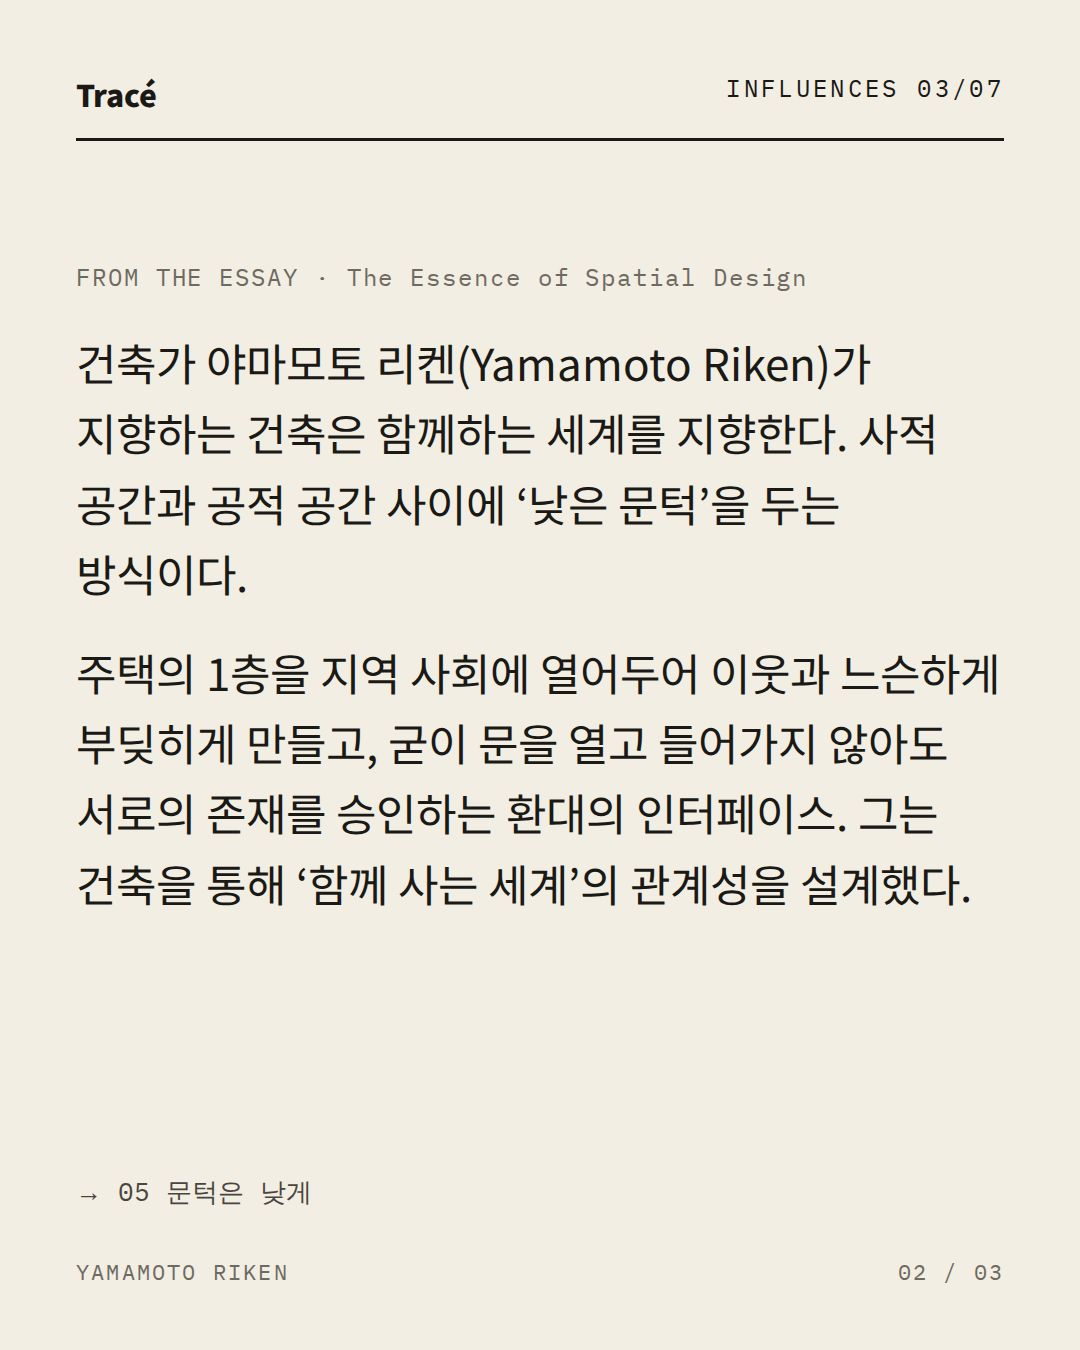
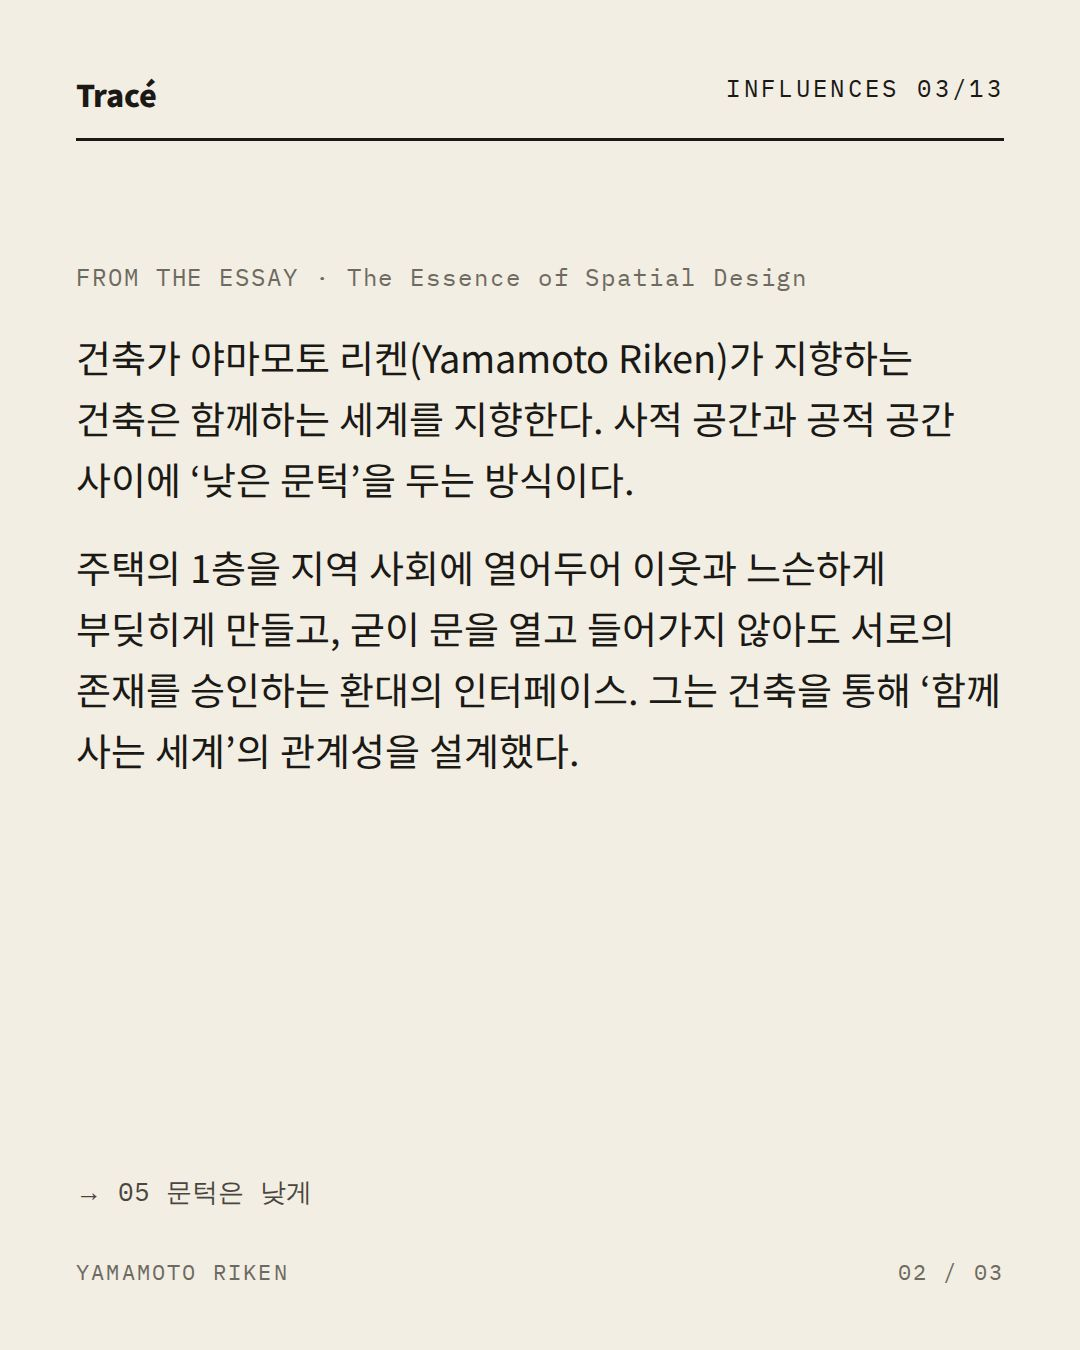
Tracé Influences: add Gehl, Debord, Nakamura, Bourdieu, Wood, Morrison (plan text + sourced facts), captions with cautions
Claude-Session: https://claude.ai/code/session_01SqK9Lxgur98TyfHNbRYJgn

Changed region(s): [[0.0611, 0.2489, 0.9472, 0.6844], [0.8861, 0.0622, 0.9167, 0.0933]]

diff --git a/threshold/scripts/render_influences.py b/threshold/scripts/render_influences.py
@@ -61,12 +61,12 @@ body{{position:relative;padding:72px 76px}}
 .bar b{{font:900 30px "Heavy";letter-spacing:0;text-transform:none}}
 .rule{{height:3px;background:#1a1916;margin-top:22px}}
 .lab{{margin-top:120px;font:400 24px "Mono";letter-spacing:.08em;color:#6e6a62}}
-.q{{margin-top:34px;font:400 44px/1.6 "Sans";word-break:keep-all}} .q p+p{{margin-top:28px}}
+.q{{margin-top:34px;font:400 {38 if len(p["quote"]) > 150 else 44}px/1.6 "Sans";word-break:keep-all}} .q p+p{{margin-top:28px}}
 .link{{position:absolute;left:76px;bottom:140px;font:400 26px "Mono";color:#4a463f}}
 .foot{{position:absolute;left:76px;right:76px;bottom:64px;display:flex;justify-content:space-between;font:400 22px "Mono";letter-spacing:.1em;color:#6e6a62}}
 </style><body>
 <div class=bar><b>Tracé</b><span>Influences {i:02d}/{n:02d}</span></div><div class=rule></div>
-<p class=lab>FROM THE ESSAY · {html.escape(p["source"])}</p><div class=q>{paras}</div>{link}
+<p class=lab>{html.escape(p.get("label", "FROM THE ESSAY"))} · {html.escape(p["source"])}</p><div class=q>{paras}</div>{link}
 <div class=foot><span>{html.escape(p["name"].replace(chr(10), " "))}</span><span>02 / 03</span></div>
 </body>"""
 

diff --git a/threshold/content/influences/captions.md b/threshold/content/influences/captions.md
@@ -1,9 +1,9 @@
 # Tracé Influences 캡션 (복사해서 붙여넣기)
 
-원문이 있는 사람부터. 캐러셀 3장: 표지 / 에세이 원문 / 확인된 사실. 캡션의 원문은 에세이 그대로, 사실 줄은 아래 출처에서 확인한 것만.
-인물 사진·작품 이미지는 쓰지 않았다. '×' 표기 없음 (협업이 아니므로).
+캐러셀 3장: 표지 / 원문 / 확인된 사실. 원문은 에세이(FROM THE ESSAY) 또는 Tracé 기획 문서(FROM THE PLAN) 그대로. 사실 줄은 아래 출처에서 확인한 것만.
+인물 사진·작품 이미지는 쓰지 않았다. '×' 표기 없음 (협업이 아니므로). 원칙 번호는 지금 사이트 기준(15개).
 
-## 02 발터 벤야민 (`cards/02_benjamin/01~03.jpg`) · 405자
+## 02 발터 벤야민 (`cards/02_benjamin/01~03.jpg`) · 401자
 
 ```
 발터 벤야민이 말한 ‘산책자(Flâneur)’는 목적지에 가장 빠르게 도달하려는 자가 아니다. 그는 도시의 아케이드와 골목길에 자신을 내던지고, 특정한 목적 없이 흐름에 몸을 맡기는 자다.
@@ -16,12 +16,12 @@
 · 파사주 프로젝트: 파리의 아케이드를 다룬 미완의 저작. 산책자(Flâneur)에 한 장을 할애했고, 사후 1982년에 출간됐다
 · 산책자라는 말: 벤야민이 처음 만든 말은 아니다
 
-#Trace #TraceInfluences #발터벤야민 #WalterBenjamin #플라뇌르 #산책 #아우라
+#Trace #TraceInfluences #발터벤야민 #WalterBenjamin #플라뇌르 #아우라
 ```
 
 출처: https://en.wikipedia.org/wiki/Walter_Benjamin · https://britannica.com/print/article/60952 · https://en.haberarts.com/arcades.htm
 
-## 03 야마모토 리켄 (`cards/03_yamamoto/01~03.jpg`) · 550자
+## 03 야마모토 리켄 (`cards/03_yamamoto/01~03.jpg`) · 543자
 
 ```
 건축가 야마모토 리켄(Yamamoto Riken)가 지향하는 건축은 함께하는 세계를 지향한다. 사적 공간과 공적 공간 사이에 ‘낮은 문턱’을 두는 방식이다.
@@ -36,12 +36,12 @@
 · 문턱: 여행과 조사 끝에 공과 사 사이의 ‘문턱’이 보편적인 개념이라고 보았다
 · 판교 하우징: 경기도 성남. 9개 동을 공용 데크로 이어 이웃이 마주치게 했다
 
-#Trace #TraceInfluences #야마모토리켄 #RikenYamamoto #프리츠커상 #건축 #공간디자인
+#Trace #TraceInfluences #야마모토리켄 #RikenYamamoto #프리츠커상 #건축
 ```
 
 출처: https://www.pritzkerprize.com/laureates/riken-yamamoto · https://www.metalocus.es/en/news/know-who-riken-yamamoto-biography-new-pritzker-2024-ii · https://www.michiganpublic.org/2024-03-05/riken-yamamoto-who-designs-dignity-and-elegance-into-daily-life-wins-pritzker-prize
 
-## 04 장카를로 데 카를로 (`cards/04_de_carlo/01~03.jpg`) · 526자
+## 04 장카를로 데 카를로 (`cards/04_de_carlo/01~03.jpg`) · 519자
 
 ```
 이탈리아의 건축가 장카를로 데 카를로(Giancarlo De Carlo)가 주창한 참여의 건축(Architecture of Participation)에서는 건축가가 일방적으로 권위를 가지고 완성된 공간을 하향식으로 주입하는 것에 반대했다.
@@ -55,7 +55,125 @@
 · 마테오티 마을: 테르니, 1969–1975. 철강 노동자들의 주택을 거주자의 의견을 들으며 설계했다
 · ILAUD: 국제 건축·도시 연구소 ILAUD를 세웠다
 
-#Trace #TraceInfluences #장카를로데카를로 #GiancarloDeCarlo #참여의건축 #건축 #UX디자인
+#Trace #TraceInfluences #장카를로데카를로 #GiancarloDeCarlo #참여의건축 #건축
 ```
 
 출처: https://en.wikipedia.org/wiki/Giancarlo_De_Carlo · https://www.cca.qc.ca/en/events/63753/the-nuovo-villaggio-matteotti-in-terni-by-giancarlo-de-carlo-1969-1975 · https://snl.no/Giancarlo_De_Carlo
+
+## 08 얀 겔 (`cards/08_gehl/01~03.jpg`) · 261자
+
+```
+지도가 사용자를 압도하지 않게 한다.
+한 번에 한 장소에만 집중하는 싱글 카드 화면과 넓은 여백.
+
+— Tracé 기획 문서
+
+· 출생: 1936 덴마크
+· 건물 사이의 삶: 「Life Between Buildings」 1971 (영어판 1987)
+· 사람을 위한 도시: 「Cities for People」 2010
+· 사무소: 2000 Gehl Architects 공동 설립
+
+#Trace #TraceInfluences #얀겔 #JanGehl #휴먼스케일 #도시계획
+```
+
+출처: https://dac.dk/en/press-releases/jan-gehl-turns-90-the-architect-who-taught-the-world-to-build-cities-for-people · https://monocle.com/design/jan-gehl-architect-cities-for-people/ · https://urbanland.uli.org/public-spaces/in-print-jan-gehl
+
+## 09 기 드보르 (`cards/09_debord/01~03.jpg`) · 357자
+
+```
+최단 경로(A → B) 대신 A → ? → ? → B로 걷는다.
+걸은 궤적은 도시의 분위기에 반응한 내 심리적 리듬의 흔적이다. “왜 이 골목에서 자꾸 멈췄을까?”를 기록하는 지도.
+
+— Tracé 기획 문서
+
+· 생몰: 1931 파리 — 1994
+· 상황주의 인터내셔널: 1957년 창립 멤버
+· 심리지리학: 1955 「도시 지리학 비판 서설」. 지리적 환경이 개인의 감정과 행동에 미치는 영향을 다룬다
+· 데리브: 평소의 이동 습관을 내려놓고 도시를 떠도는 걷기
+· 스펙터클의 사회: 「La Société du spectacle」 1967
+
+#Trace #TraceInfluences #기드보르 #GuyDebord #데리브 #심리지리학
+```
+
+출처: https://en.wikipedia.org/wiki/Guy_Debord · https://perlego.com/knowledge/study-guides/what-is-situationist-theory/
+
+## 10 나카무라 유지로 (`cards/10_nakamura/01~03.jpg`) · 258자
+
+```
+토포스는 개인의 경험이 쌓여 의미가 생긴 장소다.
+여러 사람의 이미지 지도가 겹친 ‘디지털 토포스’. 다른 사람의 기록과 겹쳐 보며 “이 거리를 이렇게도 보는구나”를 발견한다.
+
+— Tracé 기획 문서
+
+· 생몰: 1925 도쿄 — 2017
+· 학력: 1950 도쿄대학 문학부 졸업
+· 교수: 메이지대학 교수, 명예교수
+· 연구: 프랑스 철학을 바탕으로 종교·언어·문화를 넓게 논했다
+
+#Trace #TraceInfluences #나카무라유지로 #토포스 #철학
+```
+
+출처: https://kotobank.jp/word/%E4%B8%AD%E6%9D%91%E9%9B%84%E4%BA%8C%E9%83%8E-1097798 · https://booklive.jp/focus/author/a_id/13345
+
+## 11 피에르 부르디외 (`cards/11_bourdieu/01~03.jpg`) · 350자
+
+```
+낯선 장소를 추천받을수록 사용자는 평점과 리뷰 수 같은 사회적 근거를 더 찾았다.
+문제는 추천의 다양성이 아니라, 추천의 맥락을 스스로 해석할 구조가 없다는 것. 그래서 평점을 빼고 “왜 이 장소인지”를 남긴다.
+
+— Tracé 기획 문서 · 석사 논문 인터뷰
+
+· 생몰: 1930 당갱(프랑스) — 2002 파리
+· 구별짓기: 「La Distinction」 1979. 취향이 사회적 위치를 반영한다고 보았다
+· 콜레주 드 프랑스: 1981 사회학 교수
+· 아비투스: 사회 구조 속에서 몸에 밴, 세계를 살아가는 방식
+
+#Trace #TraceInfluences #피에르부르디외 #PierreBourdieu #아비투스 #사회학
+```
+
+출처: https://en.wikipedia.org/wiki/Pierre_Bourdieu · https://www.britannica.com/print/article/860434 · https://snl.no/Pierre_Bourdieu
+
+## 12 데니스 우드 (`cards/12_wood/01~03.jpg`) · 338자
+
+> 주의: 1996년 미성년자 대상 범죄로 유죄 판결을 받고 2년 넘게 복역했다는 기록이 있다. 공개 게시 전에 포함 여부를 판단할 것.
+
+```
+모든 지도는 주관적 해석이다. 누구나 지도 제작자가 될 수 있다.
+행정 경계선만 검은 선으로 둔 바탕 위에, 개인의 기록을 점과 선으로 쌓는다.
+
+— Tracé 기획 문서
+
+· 출생: 1945 미국
+· 학력: 1973 클라크대학 지리학 박사
+· 교수: 1974–1996 노스캐롤라이나 주립대에서 가르쳤다
+· 지도의 힘: 「The Power of Maps」 1992. 쿠퍼휴잇 디자인 미술관 전시 도록
+· Everything Sings: 2010. 롤리의 동네 보일런 하이츠를 그린 지도 모음
+
+#Trace #TraceInfluences #데니스우드 #DenisWood #지도 #EverythingSings
+```
+
+출처: https://en.wikipedia.org/wiki/Denis_Wood · https://www.themarginalian.org/2011/09/06/everything-sings-david-wood/
+
+## 13 그랜트 모리슨 (`cards/13_morrison/01~03.jpg`) · 433자
+
+```
+Algorithmic Serendipity · 사람들의 기록에서만 “누군가도 이곳을 봤다”를 발견한다
+Synchronicity Map · 같은 시간, 다른 장소에서 같은 주제를 본 기록
+Haunting Traces · 몇 달 전 기록이 있는 장소에 다시 갔을 때
+Voice of the City · 모든 기록을 합친 지금 도시의 기분
+
+— Tracé 기획 문서 · 도시의 신탁 아이디어
+
+· 출생: 1960 스코틀랜드 글래스고
+· 직업: 만화 작가·각본가
+· The Invisibles: DC Vertigo에서 낸 세 권짜리 시리즈. 작가 스스로 가장 중요한 작업으로 꼽는다
+· Supergods: 2011. 슈퍼히어로를 문화사로 다룬 책, 뉴욕타임스 베스트셀러
+
+#Trace #TraceInfluences #그랜트모리슨 #GrantMorrison #TheInvisibles
+```
+
+출처: https://en.wikipedia.org/wiki/Grant_Morrison · https://www.britannica.com/print/article/1880915 · https://grantmorrison.com/works
+
+## 표지만 있는 사람 (원문 주면 2·3장 추가)
+
+01 존 마에다 · 05 르 코르뷔지에 · 06 쿠마 겐고 · 07 타일러 홉스
